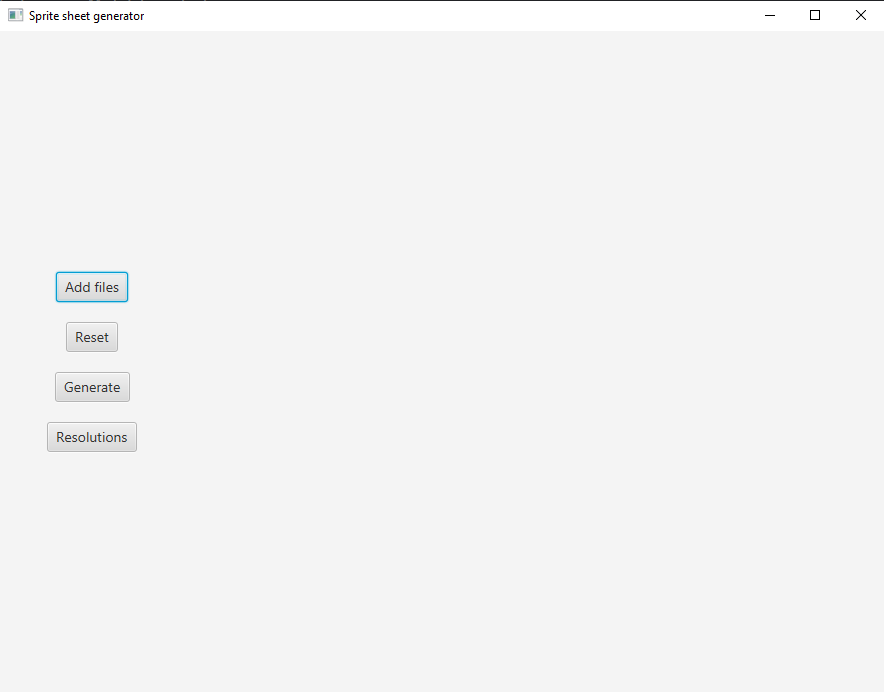
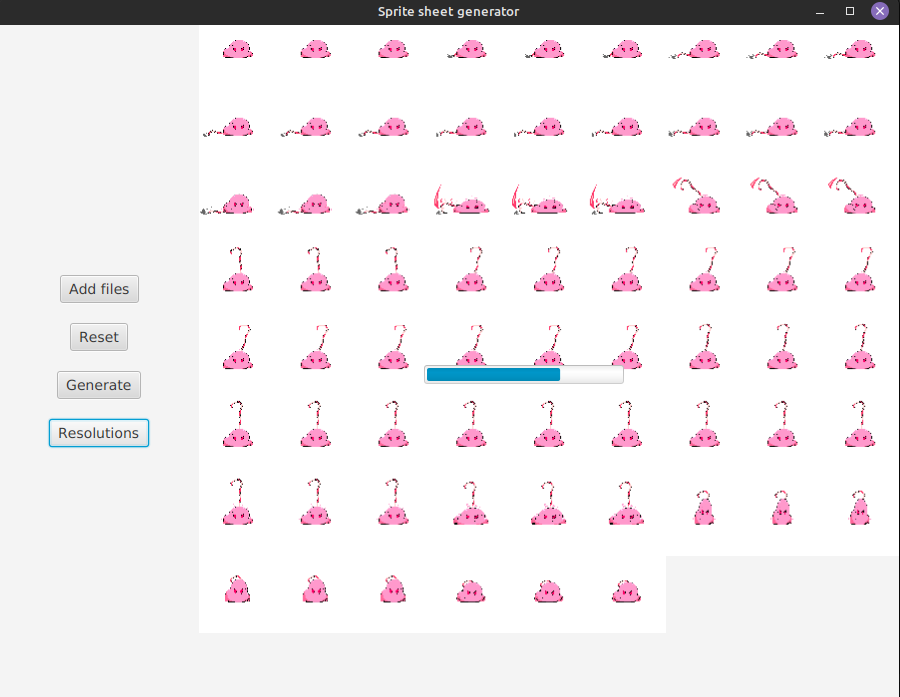
Added progress bars and made app refuse to load files that are too big for the allocated ram

diff --git a/src/main/java/ButtonController.java b/src/main/java/ButtonController.java
@@ -2,6 +2,7 @@ import javafx.event.ActionEvent;
 import javafx.fxml.FXML;
 import javafx.scene.canvas.Canvas;
 import javafx.scene.canvas.GraphicsContext;
+import javafx.scene.control.ProgressBar;
 import javafx.scene.image.ImageView;
 import javafx.stage.FileChooser;
 
@@ -23,6 +24,9 @@ public class ButtonController {
     @FXML
     private Canvas canvas;
 
+    @FXML
+    private ProgressBar progressBar;
+
     int imageX, imageY, spriteSheetX, spriteSheetY;
 
     public void setWindow(javafx.stage.Window window){
@@ -32,37 +36,63 @@ public class ButtonController {
     @FXML
     void generate(ActionEvent event){
         GeneratorService service = new GeneratorService(imageX, imageY, spriteSheetX, spriteSheetY, files);
-        service.setOnSucceeded(event1 -> {
-            try {
-                ImageIO.write(service.getValue(), "png", new File(new FileChooser().showSaveDialog(window).getAbsolutePath() + ".png"));
-            } catch (IOException e) {
-                throw new RuntimeException(e);
-            }
-        });
-        service.restart();
+        File location = new FileChooser().showSaveDialog(window);
+        if (location != null) {
+            service.setOnSucceeded(event1 -> {
+                try {
+                    ImageIO.write(service.getValue(), "png", new File(location.getAbsolutePath() + ".png"));
+                    progressBar.setVisible(false);
+                } catch (IOException e) {
+                    throw new RuntimeException(e);
+                }
+            });
+            service.progressProperty().addListener((a, o, n) -> {
+                if (n != null)
+                    progressBar.setProgress(n.doubleValue());
+            });
+            service.setOnFailed(event1 -> {
+                try {
+                    throw event1.getSource().getException();
+                } catch (Throwable e) {
+                    throw new RuntimeException(e);
+                }
+            });
+            progressBar.setVisible(true);
+            service.restart();
+        }
     }
 
     @FXML
     void generateDiffRes(ActionEvent event){
         GeneratorService service = new GeneratorService(imageX, imageY, spriteSheetX, spriteSheetY, files);
-        service.setOnSucceeded(event1 -> {
-            ScalorService scalorService = new ScalorService(spriteSheetX,spriteSheetY,service.getValue(), new FileChooser().showSaveDialog(window));
-            scalorService.restart();
-        });
-        service.restart();
-    }
-
-    BufferedImage resizeImage(BufferedImage originalImage, int targetWidth, int targetHeight) throws IOException {
-        Image resultingImage = originalImage.getScaledInstance(targetWidth, targetHeight, Image.SCALE_DEFAULT);
-        BufferedImage outputImage = new BufferedImage(targetWidth, targetHeight, BufferedImage.TYPE_INT_ARGB);
-        outputImage.getGraphics().drawImage(resultingImage, 0, 0, null);
-        return outputImage;
+        File location = new FileChooser().showSaveDialog(window);
+        if (location != null) {
+            service.setOnSucceeded(event1 -> {
+                ScalorService scalorService = new ScalorService(spriteSheetX, spriteSheetY, service.getValue(), location);
+                progressBar.setVisible(false);
+                scalorService.setOnFailed(event2 -> {
+                    try {
+                        throw event2.getSource().getException();
+                    } catch (Throwable e) {
+                        throw new RuntimeException(e);
+                    }
+                });
+                scalorService.restart();
+            });
+            service.progressProperty().addListener((a, o, n) -> {
+                if (n != null)
+                    progressBar.setProgress(n.doubleValue());
+            });
+            progressBar.setVisible(true);
+            service.restart();
+        }
     }
 
     @FXML
     void reset(ActionEvent event) {
         canvas.getGraphicsContext2D().clearRect(0, 0, canvas.getWidth(), canvas.getHeight());
         files = new ArrayList<>();
+        progressBar.setVisible(false);
     }
 
     @FXML
@@ -80,13 +110,32 @@ public class ButtonController {
             spriteSheetY = files.size() / spriteSheetX + 1;
 
             GraphicsContext gc = canvas.getGraphicsContext2D();
-            for (int i = 0; i < files.size(); i++) {
-                ImageView image = new ImageView(new javafx.scene.image.Image(files.get(i).toURI().toURL().toString()));
-                image.setPreserveRatio(false);
-                image.setFitHeight(canvas.getWidth()/spriteSheetX);
-                image.setFitWidth(canvas.getHeight()/spriteSheetX);
-                gc.drawImage(image.snapshot(null, null), i % spriteSheetX * canvas.getWidth()/spriteSheetX, i / spriteSheetX * canvas.getHeight()/spriteSheetX);
-            }
+            PreviewService previewService = new PreviewService(files);
+            previewService.setOnSucceeded(event1 -> {
+                List<ImageView> imageViews = previewService.getValue();
+                for (int i = 0; i < files.size(); i++) {
+                    imageViews.get(i).setPreserveRatio(false);
+                    imageViews.get(i).setFitHeight(canvas.getWidth()/spriteSheetX);
+                    imageViews.get(i).setFitWidth(canvas.getHeight()/spriteSheetX);
+                    gc.drawImage(imageViews.get(i).snapshot(null, null), i % spriteSheetX * canvas.getWidth()/spriteSheetX, i / spriteSheetX * canvas.getHeight()/spriteSheetX);
+                }
+                imageViews = null;
+                System.gc();
+                progressBar.setVisible(false);
+            });
+            previewService.setOnFailed(event2 -> {
+                try {
+                    throw event2.getSource().getException();
+                } catch (Throwable e) {
+                    throw new RuntimeException(e);
+                }
+            });
+            previewService.progressProperty().addListener((a, o, n) -> {
+                if (n != null)
+                    progressBar.setProgress(n.doubleValue());
+            });
+            progressBar.setVisible(true);
+            previewService.restart();
         }
     }
 

diff --git a/src/main/java/PreviewService.java b/src/main/java/PreviewService.java
@@ -1,0 +1,37 @@
+import javafx.concurrent.Service;
+import javafx.concurrent.Task;
+import javafx.scene.canvas.Canvas;
+import javafx.scene.canvas.GraphicsContext;
+import javafx.scene.image.ImageView;
+
+import javax.imageio.ImageIO;
+import java.io.File;
+import java.io.IOException;
+import java.util.ArrayList;
+import java.util.List;
+
+public class PreviewService extends Service<List<ImageView>> {
+    List<File> files;
+
+    public PreviewService(List<File> files) {
+        this.files = files;
+    }
+
+    @Override
+    protected Task<List<ImageView>> createTask() {
+        return new ScalorTask();
+    }
+
+    class ScalorTask extends Task<List<ImageView>> {
+
+        @Override
+        protected List<ImageView> call() throws Exception {
+            List<ImageView> list = new ArrayList<>();
+            for (int i = 0; i < files.size(); i++) {
+                updateProgress(i+1, files.size());
+                list.add(new ImageView(new javafx.scene.image.Image(files.get(i).toURI().toURL().toString())));
+            }
+            return list;
+        }
+    }
+}

diff --git a/src/main/java/App.java b/src/main/java/App.java
@@ -20,6 +20,15 @@ public class App extends Application {
         primaryStage.setWidth(900);
         primaryStage.setHeight(700);
         primaryStage.show();
+        long maxMemory = Runtime.getRuntime().maxMemory();
+        /* Maximum amount of memory the JVM will attempt to use */
+        System.out.println("Maximum memory (gigabytes): " +
+                (maxMemory == Long.MAX_VALUE ? "no limit" : maxMemory/1000000000));
+
+        /* Total memory currently in use by the JVM */
+        System.out.println("Total memory (gigabytes): " +
+                Runtime.getRuntime().totalMemory()/1000000000);
+
     }
 
     public static void main(String[] args) {

diff --git a/src/main/java/GeneratorService.java b/src/main/java/GeneratorService.java
@@ -38,6 +38,7 @@ public class GeneratorService extends Service<BufferedImage> {
             if (files != null) {
                 spriteSheet = new BufferedImage(spriteSheetX * imageX, spriteSheetY * imageY, BufferedImage.TYPE_INT_ARGB);
                 for (int i = 0; i < files.size(); i++) {
+                    updateProgress(i+1, files.size());
                     BufferedImage image = ImageIO.read(files.get(i));
                     for (int x = 0; x < imageX; x++) {
                         for (int y = 0; y < imageY; y++) {
